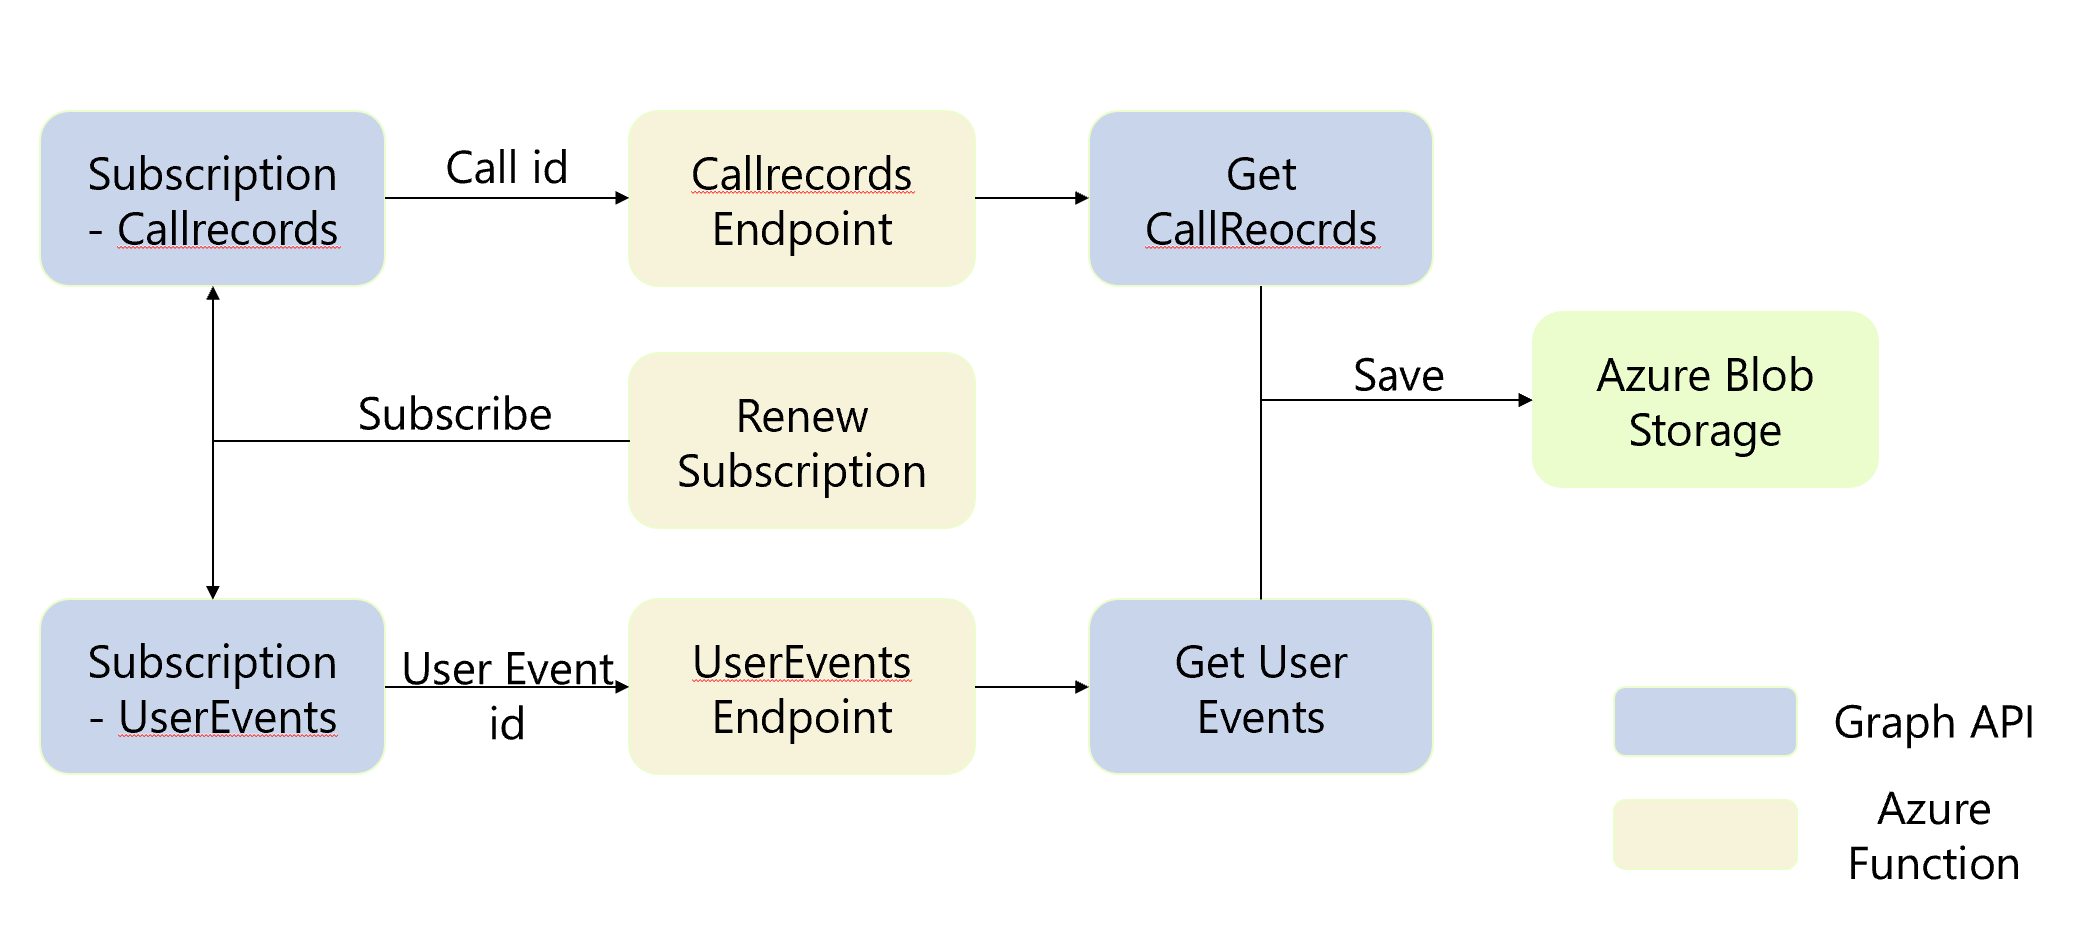
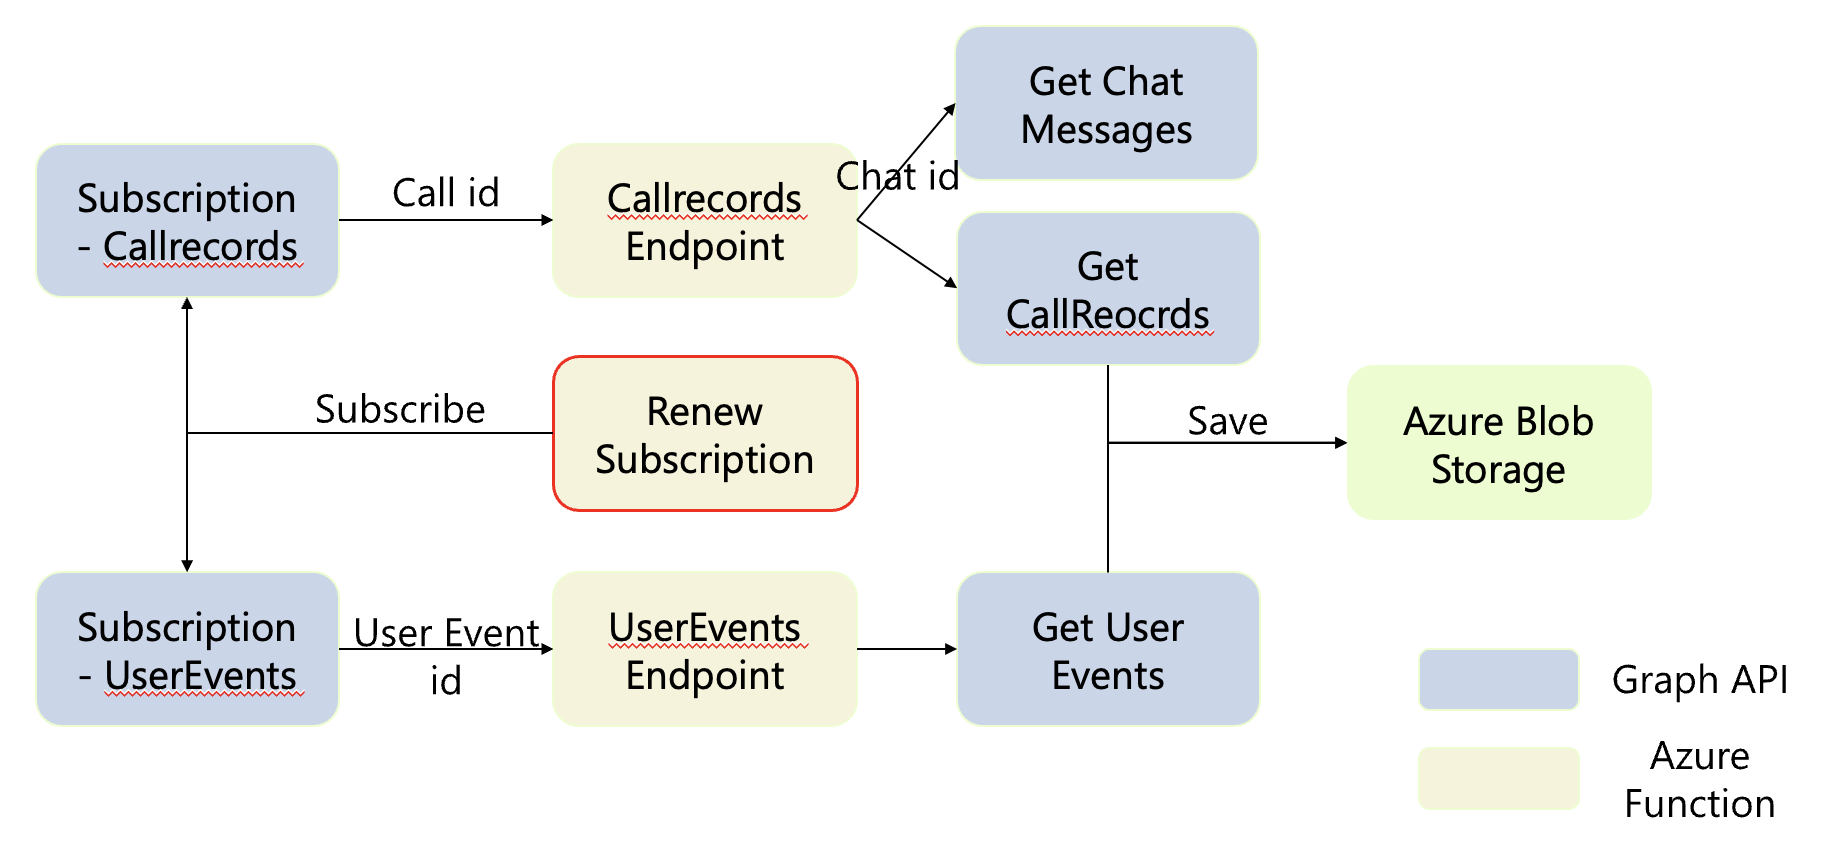
Update: update readme of chatMessage & folder info

diff --git a/README.md b/README.md
@@ -13,6 +13,7 @@
 * [Project Status](#project-status)
 * [Room for Improvement](#room-for-improvement)
 * [Acknowledgements](#acknowledgements)
+* [File/Folder Architecture](#file--folder-architecture)
 * [Contact](#contact)
 <!-- * [Screenshots](#screenshots) -->
 <!-- * [Usage](#usage) -->
@@ -25,7 +26,8 @@
         - [Subscription - change notifications](https://learn.microsoft.com/en-us/graph/api/resources/webhooks?view=graph-rest-1.0&preserve-view=true)
         - [Get event](https://learn.microsoft.com/en-us/graph/api/event-get?view=graph-rest-1.0&tabs=http)
         - [Get callRecord](https://learn.microsoft.com/en-us/graph/api/callrecords-callrecord-get?view=graph-rest-1.0&tabs=http)
-    - 1 * Blob storage
+        - [Get chatMessage](https://learn.microsoft.com/en-us/graph/api/chat-list-messages?view=graph-rest-1.0&tabs=http#request-2)
+    - 1 * Blob storage (auto-created by the program)
     - ADX
 - Work Flow
     - ![](./img/new_architecture.png)
@@ -234,6 +236,14 @@
                     .Expand("sessions($expand=segments)")
                     .GetAsync();
     ```
+- If the environment variable `IsChatApi` is `true`, we are going to get the chatMessage from chatMessage API
+    ```C#
+    // Get the chat id from regex
+    string chatid = matches[0].Value; 
+    string resource = $"chats/{chatid}/messages";
+    string webApiUrl = $"{config.ApiUrl}v1.0/{resource}"; // combine the resource to endpoint api
+    HttpResponseMessage response = await httpClient.GetAsync(webApiUrl);
+    ```
 ### GetUserEvents.cs
 - When the program recieve http request from the subscription resource, the program will be triggered.
 - Use the `resource` to get the event object and save it as a json file to container specified in `BlobContainerName_UserEvents`, using Http request.
@@ -274,6 +284,12 @@ Give credit here.
 - This project was based on [this tutorial](https://www.example.com).
 - Many thanks to...
 -->
+
+## File / Folder Architecture
+### Folder
+- AssistTools: Can use this to generate configuration to fill in azure
+- img: all image files for README.md
+- src: source code of project
 
 ## Contact
 Created by [@Eric](https://github.com/yhlu0923/) - feel free to contact me!
